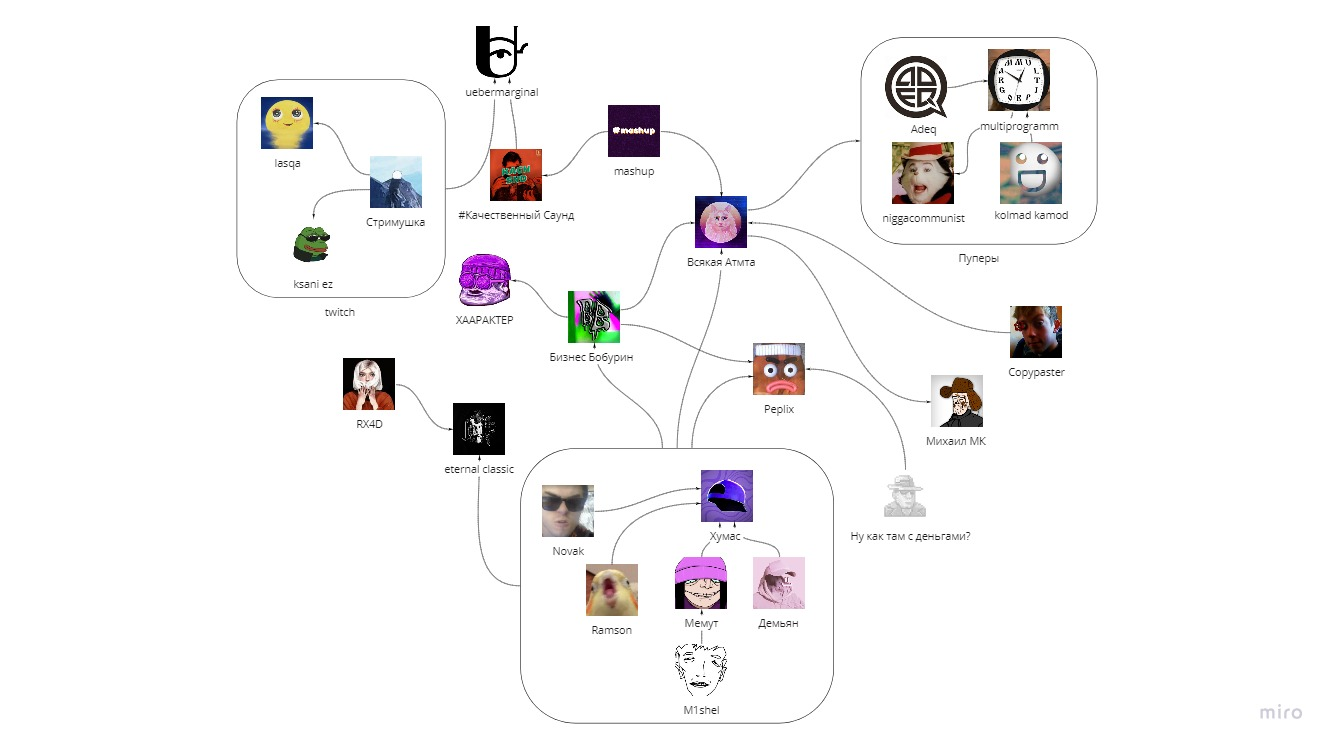
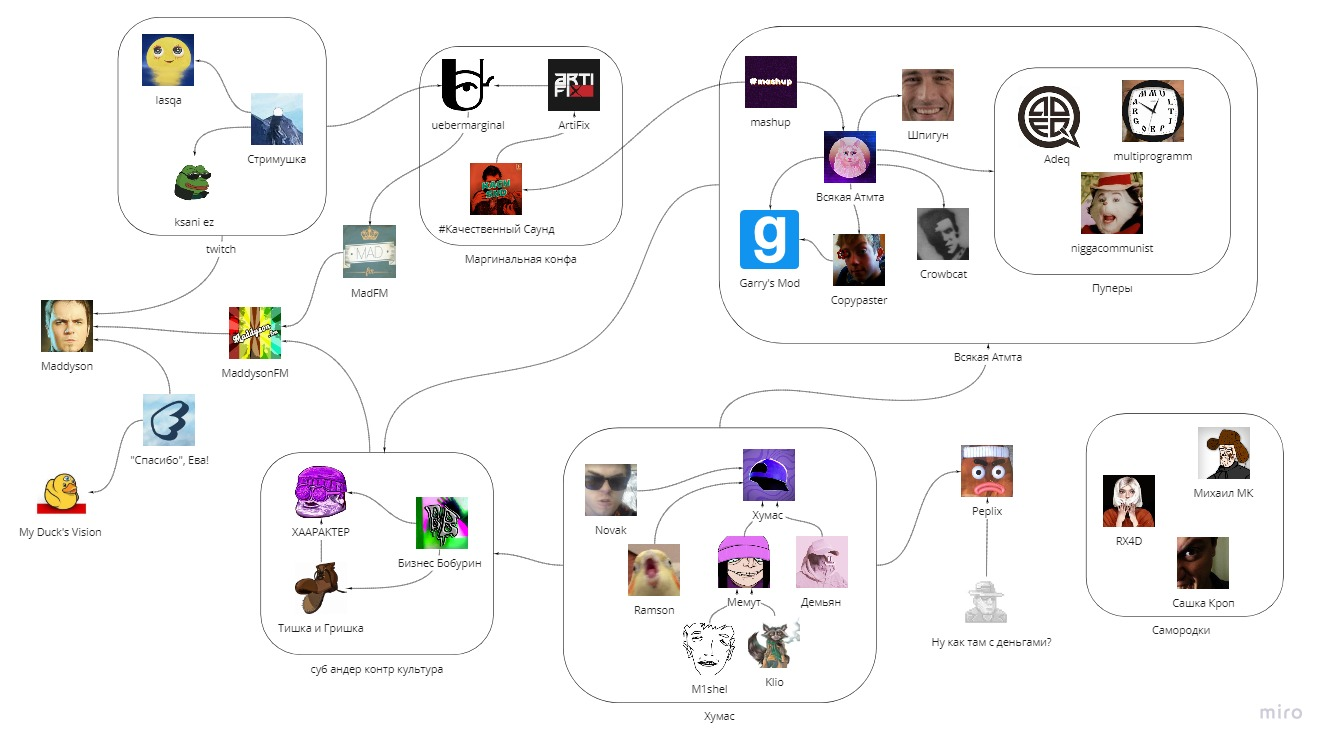
yt wip

diff --git a/pages/yt.vue b/pages/yt.vue
@@ -13,7 +13,6 @@
     </p>
 
 
-
     <ul>
 
 
@@ -38,23 +37,35 @@
     <p>
       Раньше, в году 2010, был <a href="https://www.youtube.com/user/Maddyblog/featured"><b>Maddyson</b></a>, потом
       создали радио,
-      посвященное ему - MaddysonFM. Там была зародилась тусовка
-      RJеев, обзорщиков, блоггеров, в нее входили <a href="https://www.youtube.com/watch?v=4ynC7mOJcaI">Зебуро</a> , <a
-      href="https://www.youtube.com/watch?v=DWqZr9mPUCA">Mostcus</a>, <a
+      посвященное ему - MaddysonFM. Там была тусовка
+      RJеев, обзорщиков, блоггеров, в нее входили <a href="https://www.youtube.com/watch?v=4ynC7mOJcaI">Зебуро</a> ,
+      <a
+        href="https://www.youtube.com/watch?v=DWqZr9mPUCA">Mostcus</a>, <a
       href="https://www.youtube.com/watch?v=E1-imwykJCE">Писюкович</a> и другие.
     </p>
 
+
+    <img src="~/assets/yt/xaa.png" class="streamline-img float-left">
+
     <p>
+
       В той же тусовке был <a
-      href="https://www.youtube.com/user/XAAPAKTEP"><b>XAAPAKTEP</b></a>, который поначалу записывал как ребятки играли
+      href="https://www.youtube.com/user/XAAPAKTEP"><b>XAAPAKTEP</b></a>, который поначалу записывал как ребятки
+      играли
       и делал
-      на все это <a href="https://www.youtube.com/watch?v=WR2puzDDoeQ">ебанутый монтаж</a>. Параллельно был некий Гришка
-      Бобурин, который снимал <a href="https://www.youtube.com/c/StudeyaBashmaK/about">"Тишка и Гришка"</a> - абсурдный
+      на все это <a href="https://www.youtube.com/watch?v=WR2puzDDoeQ">ебанутый монтаж</a>. Параллельно был некий
+      Гришка
+      Бобурин, который снимал <a href="https://www.youtube.com/c/StudeyaBashmaK/about">"Тишка и Гришка"</a> -
+      всратый
       серик про двух пездюков. Потом Гришка и XAAPAKTEP объединились и начали делать <a
-      href="https://www.youtube.com/watch?v=H74jrr7pGFs">абсурд с ебанутым монтажом</a>. В последствии, человек, который
-      монтировал все это дело, закончил проект XAAPAKTEP, а Гришка Бобурин продолжил снимать видики на своем канале - <a
-      href="https://www.youtube.com/channel/UCdAsMEhr_9ZmwZo3ZJ9YMYA">Бизнес Бобурин™</a>.
+      href="https://www.youtube.com/watch?v=H74jrr7pGFs">абсурд с ебанутым монтажом</a>. В последствии, человек,
+      который
+      монтировал все это дело, закончил проект XAAPAKTEP, а Гришка Бобурин продолжил снимать видики на своем канале -
+      <a
+        href="https://www.youtube.com/channel/UCdAsMEhr_9ZmwZo3ZJ9YMYA">Бизнес Бобурин™</a>.
     </p>
+
+    <hr/>
 
     <p>
       Еще в те времена были популярны в узких кругах RYTP - по сути тоже абсурдный юмор, построенный на смешных видосах.
@@ -67,6 +78,8 @@
       href="https://www.youtube.com/watch?v=pP3guab-KVs">всем офисом ржем в вотссаппе</a>).
     </p>
 
+    <img src="~/assets/yt/atmta.png" class="streamline-img float-right">
+
     <p>
       Это дело форсилось в ВК в паблосе <a href="https://vk.com/hynta_atmta"><b>Всякая Атмта</b></a>. Как следует из
       названия,
@@ -76,27 +89,33 @@
       мемами про популярную игру растет +- оттуда.
     </p>
 
-<!-- todo   <li>
-        <a href="https://www.youtube.com/user/CrowbCat">Crowbcat</a> - сравнение игр, напр. на тизере и на релизе; <a
-        href="https://www.youtube.com/watch?v=omyoJ7onNrg">про киберпук</a> просто пушка
-      </li>
 
-      <li>
-        <a href="https://www.youtube.com/user/MrShpigun">Шпигун</a> - обзоры игор с приколами
-      </li>-->
+    <!-- todo   <li>
+            <a href="https://www.youtube.com/user/CrowbCat">Crowbcat</a> - сравнение игр, напр. на тизере и на релизе; <a
+            href="https://www.youtube.com/watch?v=omyoJ7onNrg">про киберпук</a> просто пушка
+          </li>
+
+          <li>
+            <a href="https://www.youtube.com/user/MrShpigun">Шпигун</a> - обзоры игор с приколами
+          </li>-->
+
+    <img src="~/assets/yt/gm.png" class="streamline-img float-left">
+
 
     <p>
       Немаловажную часть игровой мем культуры (пиздец сказанул) составляют мемы про <a href="https://vk.com/valvememes">игры
       на движке Source</a> и <a href="https://vk.com/gmvvk"><b>песочницу Garry's Mod</b></a>, построенную на этом
       движке.
-      Garry's Mod позволял делать машинимы - про них даже <a
-      href="https://ru.wikipedia.org/wiki/%D0%9C%D0%B0%D1%88%D0%B8%D0%BD%D0%B8%D0%BC%D0%B0">статья на вики</a> есть.
-      Машинимы в основном делались иностранные приколисты, но были и наши - напр. <a
+      Garry's Mod позволял делать машинимы (про них даже <a
+      href="https://ru.wikipedia.org/wiki/%D0%9C%D0%B0%D1%88%D0%B8%D0%BD%D0%B8%D0%BC%D0%B0">статья на вики</a> есть).
+      Машинимы в основном делались иностранными приколистами, но были и наши. Напр. <a
       href="https://www.youtube.com/user/Deadlymanyak">Copypaster</a> - он является создателем видика <a
       href="https://www.youtube.com/watch?v=_U9JjGseXIs">CRIMINAL POORUSHQUE</a> - который собрал 3кк просмотров, что
       нереально много для такого нишевого жанра как рус г-мод машинима, и
       представляет собой сборную солянку мемов того времени.
     </p>
+
+    <img src="~/assets/yt/mashup.png" class="streamline-img float-right">
 
     <p>
       Среди неигровых форсов Всякой Атмты хочется отметить такой пабос как <a
@@ -121,11 +140,16 @@
 
     <!--  todo  https://www.youtube.com/channel/UCgISDXr5ZVZzTPnFYSMXTVA -->
 
-<!--        <li>
-      <a href="https://www.youtube.com/channel/UCIvkS0o7Csl6EuA7gCmdgqg">Karmik Koala </a> - разборчики спидранов и
-      прикольчики, напр. про <a href="https://www.youtube.com/watch?v=helf7_fBGQA">ЧАС ПЯТНАДЦАТЬ</a>
-    </li>
--->
+    <!--        <li>
+          <a href="https://www.youtube.com/channel/UCIvkS0o7Csl6EuA7gCmdgqg">Karmik Koala </a> - разборчики спидранов и
+          прикольчики, напр. про <a href="https://www.youtube.com/watch?v=helf7_fBGQA">ЧАС ПЯТНАДЦАТЬ</a>
+        </li>
+    -->
+    <hr/>
+
+
+    <img src="~/assets/yt/peplix.png" class="streamline-img float-right">
+
 
     <p>
       В 2019 году в мем игру ворвался паблос <a href="https://vk.com/peplix"><b>мемблексы
@@ -134,13 +158,16 @@
       большая ржака.
 
 
-      Дали вторую жизнь легендарному пранку <a href="https://www.youtube.com/channel/UCopMiHFAAp5fcow9h5lg-Mg">Ну как там с деньгами?</a>.
+      Дали вторую жизнь легендарному пранку <a href="https://www.youtube.com/channel/UCopMiHFAAp5fcow9h5lg-Mg">Ну как
+      там с деньгами?</a>.
     </p>
+
 
     <!--    todo https://vk.com/aminoacid -->
 
 
-    <!-- todo https://www.youtube.com/user/spasiboeva/featured, https://www.youtube.com/user/myducksvision/videos -->
+    <img src="~/assets/yt/humas.png" class="streamline-img float-left">
+
 
     <p>
       На основе всего этого рос я и другие представители молодежи. Самым любимым из них для меня является
@@ -152,7 +179,7 @@
       cuntent-мейкеров, которым я доначу:
     </p>
 
-    <img-row :images="['/yt/humas.png']"></img-row>
+    <img-row :images="['/yt/humas-donate.png']"></img-row>
 
     <p>
       Похожие на Хумаса видео-мейкеры тоже существуют и все они достойны внимания. Он их собственно и пиарит: <a
@@ -164,50 +191,67 @@
       href="https://www.youtube.com/watch?v=_XjSDx2Vhk8">Klio</a>.
     </p>
 
+    <hr/>
+
+    <p>
+      Вернемся снова к Меддисону. Году в 2011 люди с канала <a href="https://www.youtube.com/user/myducksvision">My
+      Duck's Vision</a> создали портал <a href="https://www.youtube.com/user/spasiboeva">"Спасибо", Ева!</a>, где
+      размещались такие блоггеры как <a href="https://www.youtube.com/user/usachevShow">Усачев</a>, <a
+      href="https://www.youtube.com/user/psychodozerLive">Психодозер</a>, там зародились группы <a
+      href="https://www.youtube.com/user/studsovetshow">Хлеб</a>, <a
+      href="https://www.youtube.com/channel/UCu7TZ_ATWgjgD9IrNLdnYDA">Little Big</a>, и Меддисон там делал свою
+      передачу.
+    </p>
+
+    <img src="~/assets/yt/twitch.png" class="streamline-img float-right">
+
+
+    <p>
+      После закрытия Спасибо Ева, из-за вскрытия инфы о том, что <a
+      href="https://click-or-die.ru/2020/04/kremlevskie-dengi-dlya-ilicha-i-poperechnogo-kak-razvalilas-legendarnaya-spasibo-eva/">портал
+      спонсируется Кремлем</a>, Меддисон
+      вскоре
+      ушел в стримерство на <b>Twitch</b>. Там у него появились подсосы - малоизвестные стримеры, которых он пиарил, напр. <a
+      href="https://www.twitch.tv/lasqa">Lasqa</a>, <a href="https://www.twitch.tv/mistafaker">Faker</a>.
+    </p>
+
+
+    <img src="~/assets/yt/stream.png" class="streamline-img float-left">
+
+    <p>
+      А стримеры народ особый: стримеры знают остальных стримеров; стримеры рейдят друг друга - заканчивая трансляцию
+      они перенаправляют зрителей на канал другого стримера; стримеры делают ивенты - напр. СтримХата, HPG - в которых
+      несколько стримеров собираются и проходят игры.
+      И за всем эти уследить трудновато, соответсвенно, существуют каналы, которые занимаются нарезками, напр. <a
+      href="https://www.youtube.com/channel/UC0t8dMh13Rl-I-dbBlR0vFA">Стримушка</a>. Так же про стримеров делают целые
+      мувики, напр. <a href="https://www.youtube.com/channel/UCPDQObYqflaenLFgOAAw9Zg">ksani ez</a>.
+    </p>
+
+
+    <hr />
 
     <!-- todo    https://www.twitch.tv/lasqa https://www.twitch.tv/voodoosh https://www.twitch.tv/karmikkoala -->
 
-<!--    -->
+    <!--    -->
+
+
+    <p>
+      Напоследок напишу о самородках - видео-мейкерах, которые никак не связаны с тем, о чем я писал выше. Они делают
+      видосы сами по себе и имеют неплохую для своей ниши аудиторию:
+    </p>
 
     <ul>
-      <li><a href="https://www.youtube.com/channel/UC0t8dMh13Rl-I-dbBlR0vFA">Стримушка</a> - нарезки популярных
-        стримеров, бывают смешными
-      </li>
-      <li>
-        <a href="https://www.youtube.com/channel/UCPDQObYqflaenLFgOAAw9Zg">ksani ez</a> - монтажики про стримеров
-      </li>
-
-      <li>
-      </li>
-      <li>
-        - видосы на различную тематику,
-        прикольного характера; канал начинающий, но уже каждый видос с кафом смотрю, например про <a
-        href="https://www.youtube.com/watch?v=zDvi0p378O8">похудение</a>
-      </li>
-      <li>
-      </li>
-
-
-<!-- todo самородки -->
-
       <li>
         <a href="https://www.youtube.com/channel/UCqpcO047_wiKpaThyjHQSrg">RX4D </a> - переозвучка про комплектующие
         компов
       </li>
-      <li>
-      </li>
-
-
       <li>
         <a href="https://www.youtube.com/user/ogomk">Михаил МК</a> - мультфильмы для всей семьи
       </li>
       <li>
         <a href="https://www.youtube.com/channel/UC8HnwuT88qHrixEJPdlJMvQ">Сашка Кроп</a> - обзоры олдовых игр
       </li>
-
     </ul>
-
-
 
 
     <h2>Всякое</h2>
@@ -418,4 +462,8 @@ export default class yt extends Vue {
 </script>
 
 <style scoped>
+.streamline-img {
+  @apply w-24 h-24  m-3;
+}
+
 </style>
